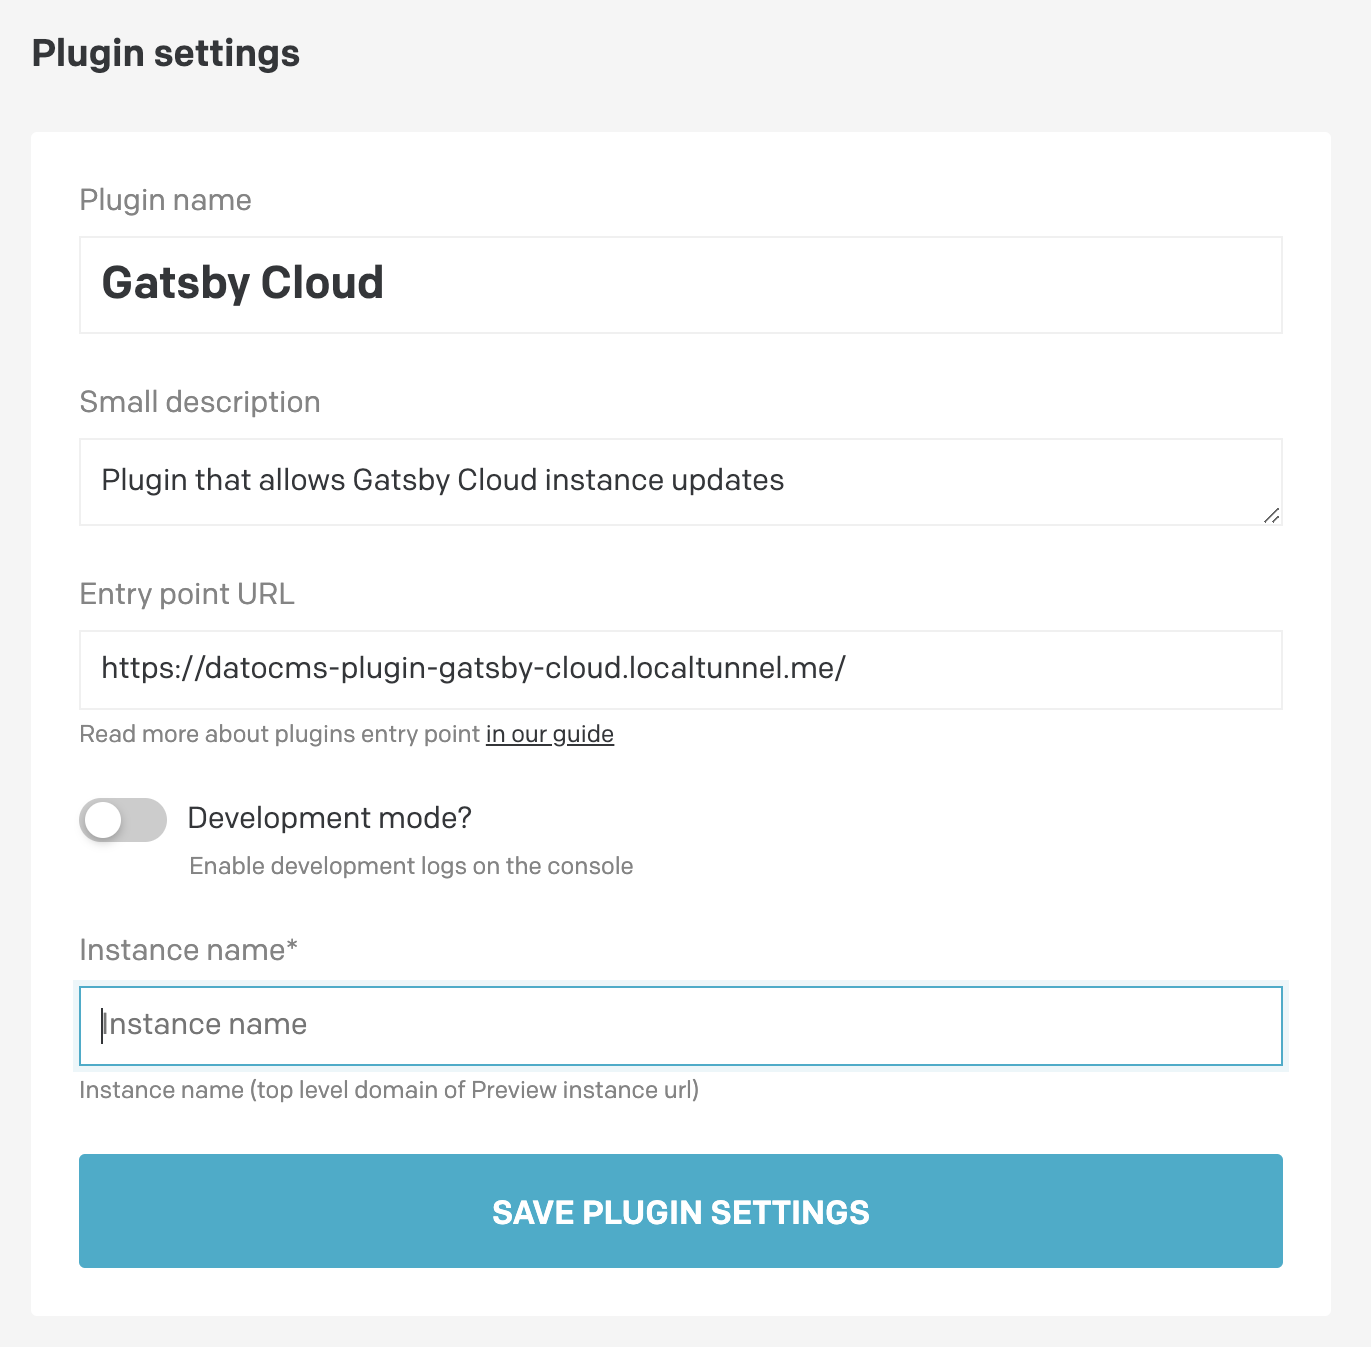
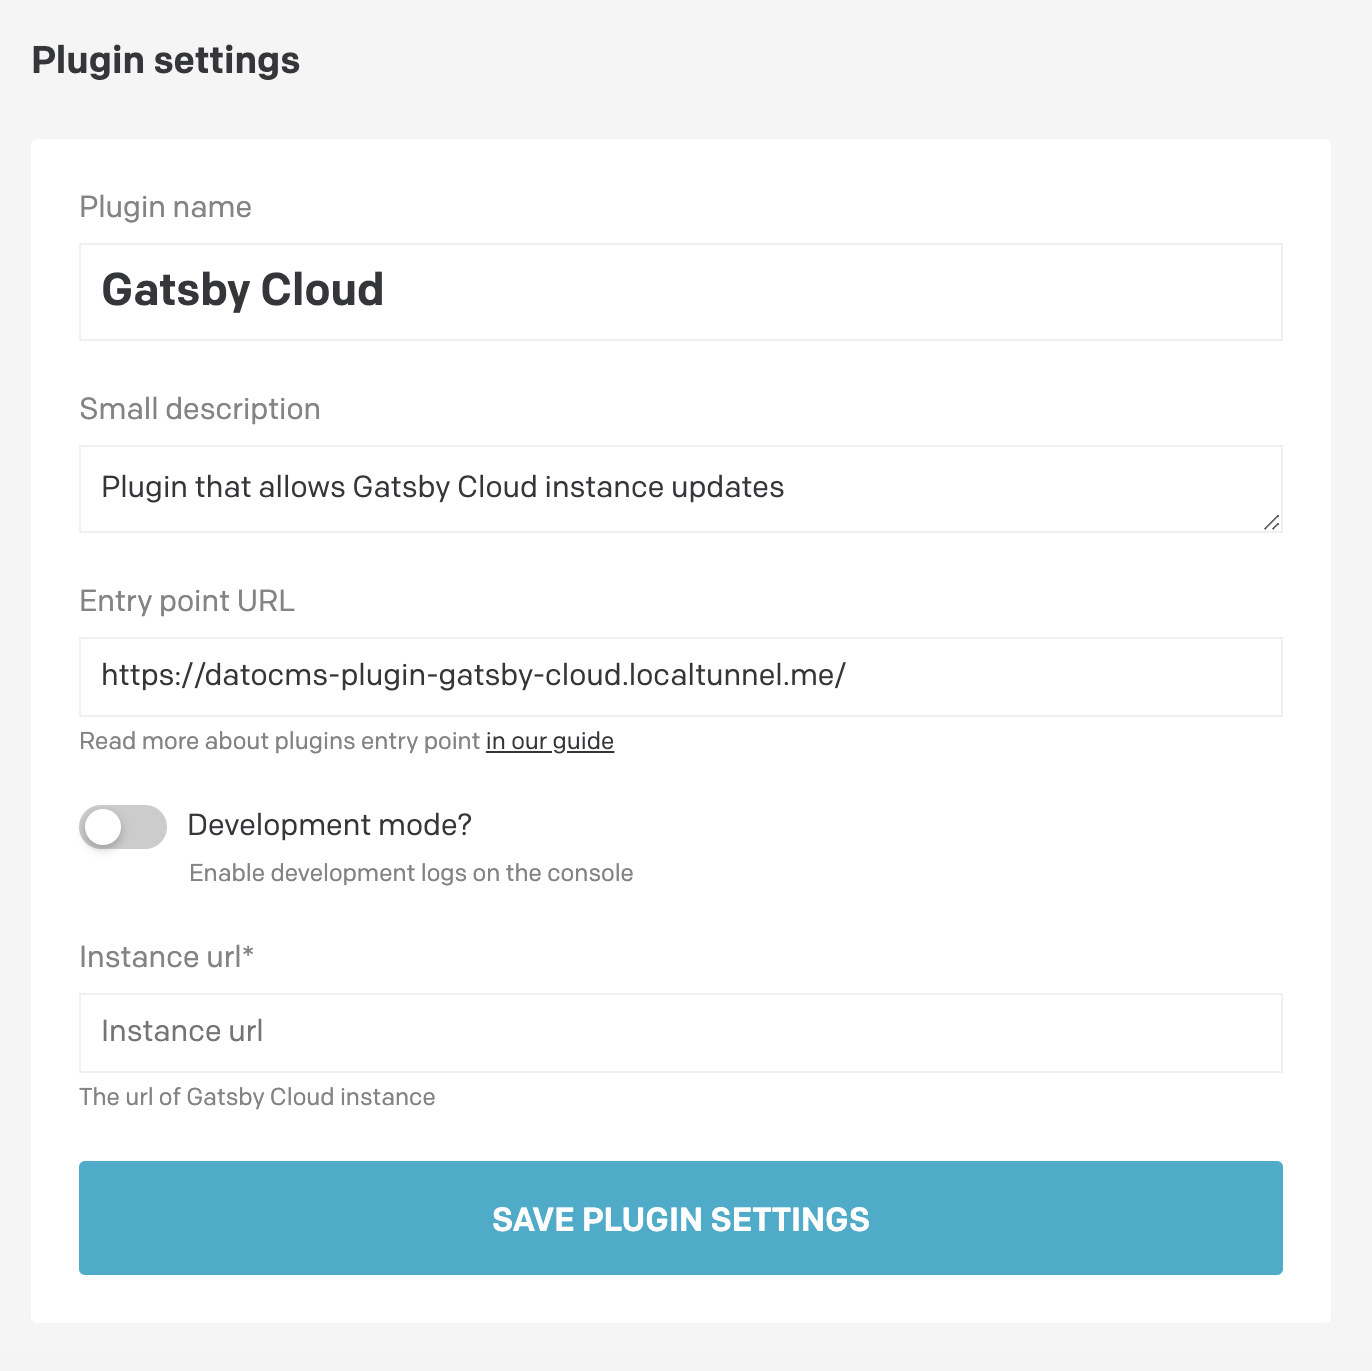
Change instance name to instance url

diff --git a/src/Main.jsx b/src/Main.jsx
@@ -18,13 +18,12 @@ export default class Main extends Component {
 
   render() {
     const { plugin } = this.props;
-    const { parameters: { global: { instanceName } } } = plugin;
-    const instanceUrl = `https://${instanceName}.gtsb.io`;
+    const { parameters: { global: { instanceUrl } } } = plugin;
 
     return (
       <div className="container">
         <h1>Gatsby Cloud</h1>
-        {instanceName
+        {instanceUrl
           ? (
             <a href={instanceUrl} alt="Instance url" target="_blank" rel="noopener noreferrer">
               <button
@@ -37,7 +36,7 @@ export default class Main extends Component {
             </a>
           )
           : (
-            <p>Missing required instance name. Please check your plugin settings.</p>
+            <p>Missing required Gatsby Cloud instance url. Please check your plugin settings.</p>
           )
         }
         <div className="powered__by">

diff --git a/README.md b/README.md
@@ -4,7 +4,7 @@ Plugin that allows Gatsby Cloud instance updates
 
 ## Configuration
 
-Please specify a Gatsby Cloud preview instance name on the plugin global settings.
+Please specify a Gatsby Cloud preview instance url on the plugin global settings.
 
 ![Configuration screenshot](./config-screenshot.png)
 
